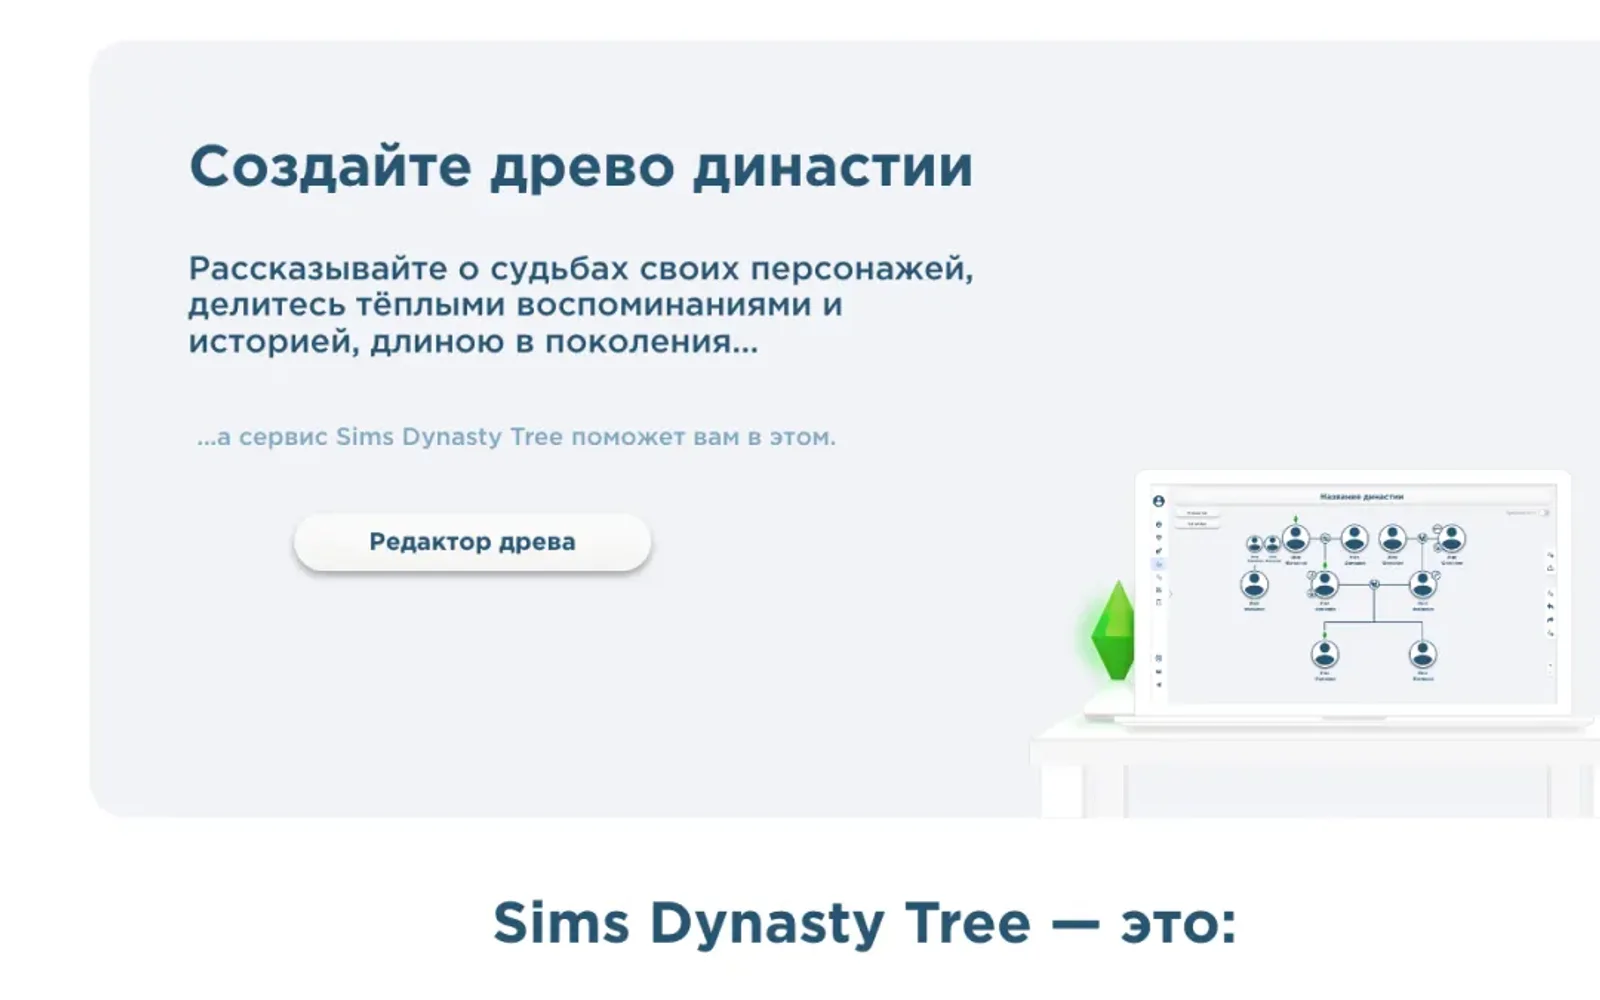
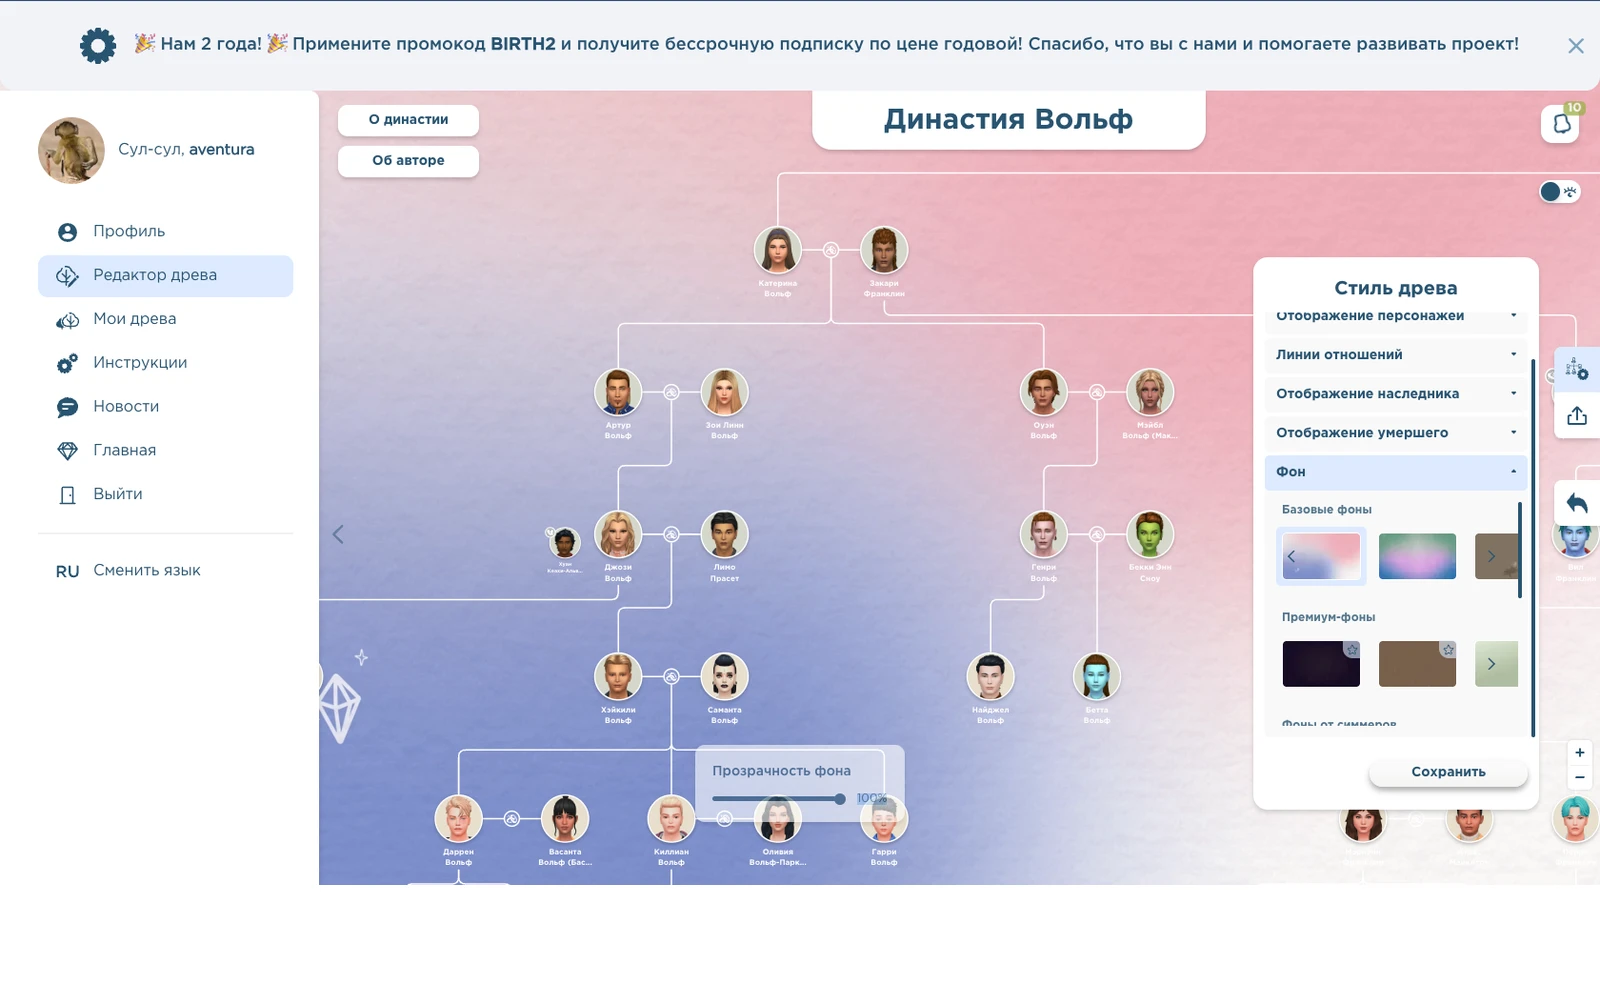
feat(cases): expand Sims Dynasty Tree case

diff --git a/tests/portfolio/portfolioSource.test.ts b/tests/portfolio/portfolioSource.test.ts
@@ -213,6 +213,25 @@ test("NooDome shows the approved website and mobile product views", async () => 
   }
 });
 
+test("Sims Dynasty Tree shows the approved product gallery", async () => {
+  const record = (await loadPortfolioSources()).find(item => item.slug === "sims-dynasty-tree");
+  assert.ok(record, "sims-dynasty-tree");
+
+  const screenshots = record.payload.screenshots ?? [];
+  assert.deepEqual(screenshots.map(screenshot => screenshot.src), [
+    "/projects/portfolio/sims-dynasty-tree/cover.webp",
+    "/projects/portfolio/sims-dynasty-tree/large-dynasty.webp",
+    "/projects/portfolio/sims-dynasty-tree/product-overview.webp",
+  ]);
+  assert.equal(new Set(screenshots.map(screenshot => screenshot.src)).size, screenshots.length);
+  for (const screenshot of screenshots) {
+    assert.match(screenshot.src, /^\/projects\/portfolio\/sims-dynasty-tree\//);
+    assert.ok(screenshot.alt.trim().length > 20, screenshot.src);
+    assert.ok(screenshot.width > 0, screenshot.src);
+    assert.ok(screenshot.height > 0, screenshot.src);
+  }
+});
+
 test("automation and internal portfolio batch is complete", async () => {
   const slugs = new Set((await loadPortfolioSources()).map(record => record.slug));
   for (const slug of [
